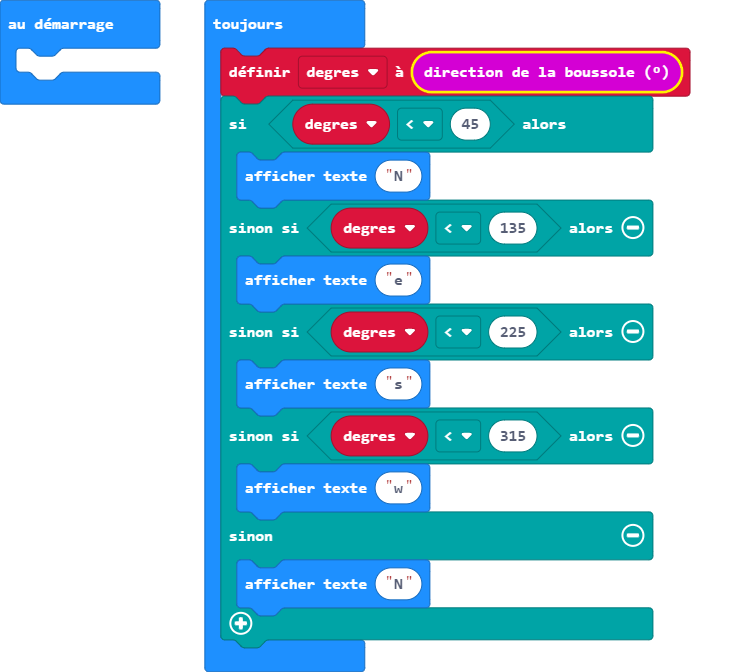
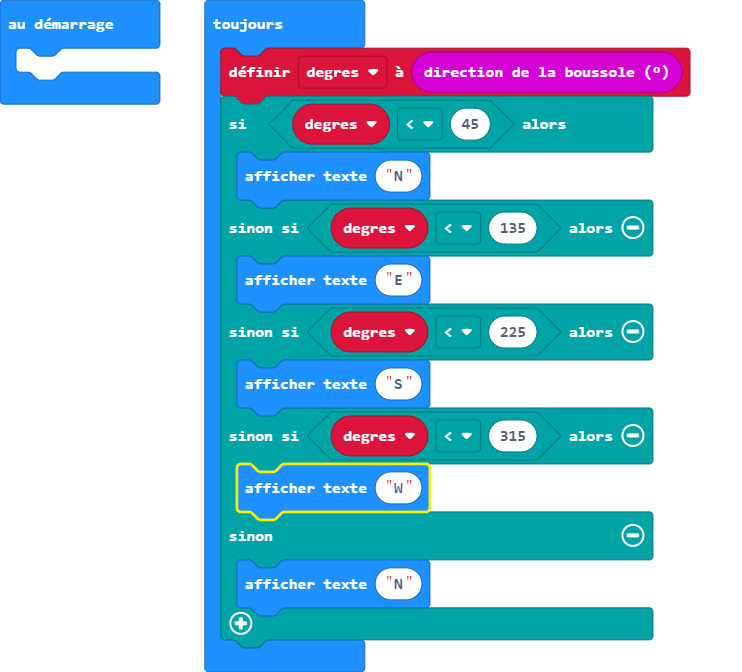
Mise à jour main.blocks, main.ts

diff --git a/main.ts b/main.ts
@@ -4,11 +4,11 @@ basic.forever(function () {
     if (degres < 45) {
         basic.showString("N")
     } else if (degres < 135) {
-        basic.showString("e")
+        basic.showString("E")
     } else if (degres < 225) {
-        basic.showString("s")
+        basic.showString("S")
     } else if (degres < 315) {
-        basic.showString("w")
+        basic.showString("W")
     } else {
         basic.showString("N")
     }
